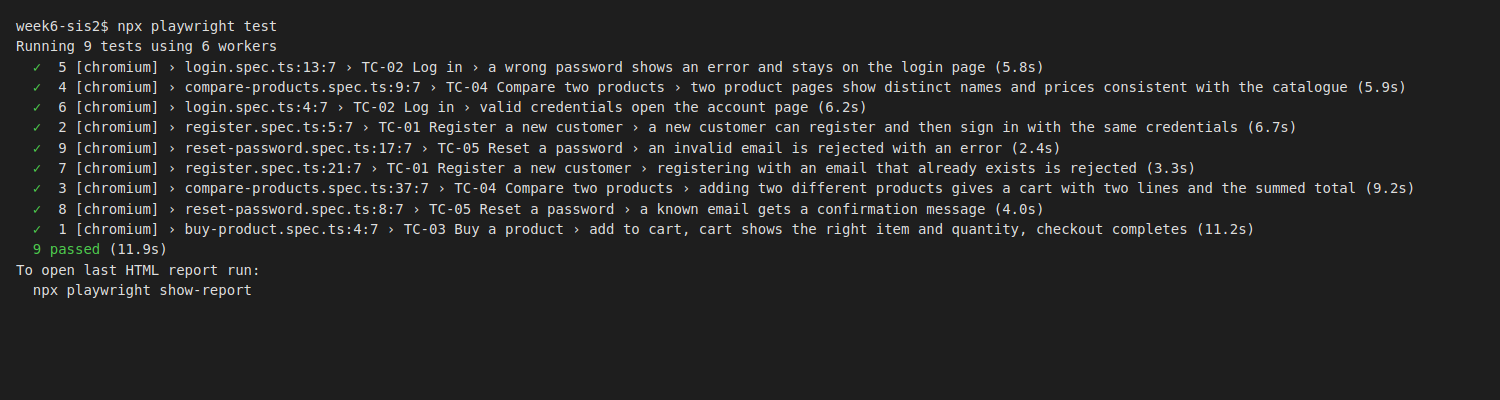
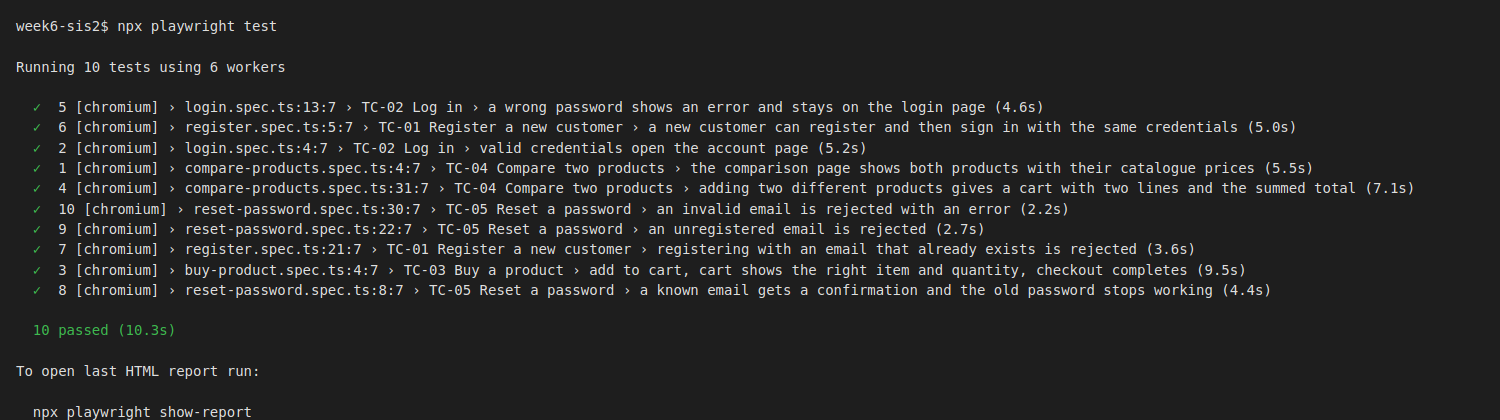
SIS 2: docs and evidence for the comparison, reset and checkout changes

diff --git a/week6-sis2/Review.md b/week6-sis2/Review.md
@@ -40,6 +40,9 @@ Branch `ai-raw-draft-sis2` (commit `7c420e5`) holds the first draft exactly as g
 | R7 | After "Payment was successful", click the same button again (`confirmOrder()`, label "Confirm") before asserting the order confirmation (`040689a`) | On the live site the first click only checks the payment; the second places the order and shows "Thanks for your order! Your invoice number is INV-…". |
 | R8 | Order confirmation locator narrowed from `/thanks for your order\|order was placed\|invoice/i` + `.first()` to `/thanks for your order/i` (`040689a`) | `.first()` picked the hidden "My invoices" link in the signed-in user menu, so `toBeVisible()` could never pass. |
 | R9 | `tools/discover.mjs`: nine `waitForTimeout` calls replaced by waits for the element each step produces (`01ab2c6`) | The rule is "no `waitForTimeout` anywhere", and the script is in the repository. Re-ran `npm run discover` afterwards: same sections and data. |
+| R10 | TC-04 rewritten to use the Toolshop's own comparison: "Compare" on two product pages, "Compare Now", then assertions on the `/comparison` table. New `ComparisonPage`; `addToCompare()` and `openComparison()` on `ProductPage` | The draft said the Toolshop had no compare feature and compared two product pages inside the test. That was wrong: `ci-out/discovery.md` already listed `add-to-compare` on the product page and `compare-btn` on the catalogue cards, and I missed it. I noticed when reading other students' public SIS 2 repositories, which test the comparison page. The bar only appears once two products are selected, so the test waits for "2 product(s) selected" before opening the page. |
+| R11 | TC-05: the known-email test now also signs in with the old password and expects "Invalid email or password"; new test for an unregistered but well-formed email | The confirmation alert is an untranslated i18n key (R5), so on its own it proves little. A password that stops working shows the reset happened. An unregistered email is a different partition from a malformed one: the server rejects it ("The selected email is invalid."), while `not-an-email` fails on the form. |
+| R12 | Checkout address step: the test no longer types an address. It waits for both `/postcode-lookup` answers and checks that the city changed from the profile value, then proceeds | R6 got the cause backwards. TC-03 failed 4 of 8 runs again, and the trace showed the same 422. Logging the invoice requests showed that the server accepts only the made-up address from the lookup ("Lake Daniela, California", 201) and rejects the real Almaty address (422). R6 passed only in the runs where a second, late lookup overwrote our values. Postcode and house number each send their own lookup, and the profile prefill triggers both, so the step waits for two. The invoice address the site accepts is itself a defect worth reporting. |
 
 Outcome of the section 4 decisions on the live site: D1 all names correct except the missing `house_number` (R3); D2 `KZ` is the option value and `Kazakhstan` its label, both valid; D3 `cash-on-delivery` is correct; D4 "already exists" and "Invalid email or password" correct, reset text wrong (R5); D5 the cart table has no row-level `data-test`, `tbody tr` kept.
 
@@ -70,6 +73,13 @@ Local runs on 2026-10-23, Ubuntu 26.04.1 LTS (12 cores), Node 24.18.0, Playwrigh
 | 9 | 2026-10-23 | `npx playwright test --repeat-each=2`: 18/18 passed (19.0s) | Order independence; every repeat registers its own customer. |
 | 10 | 2026-10-23 | with-bugs build, 0/9 passed | See section 6: not a valid signal. |
 | 11 | 2026-10-23 19:48 Almaty | Final `npx playwright test`: 9/9 passed (11.9s) | Recorded in `screenshots/03-local-run-*.png`. |
+| 12 | 2026-10-23 | First run of the new TC-04: failed | Waited for "1 product(s) selected" after the first product; the bar does not appear for one product. Check moved to after the second (R10). |
+| 13 | 2026-10-23 | TC-04 and TC-05 specs, three runs: 5/5 passed each time | After R10, R11. |
+| 14 | 2026-10-23 20:12 Almaty | `npx playwright test`: 10/10 passed (16.1s); `--workers=4 --repeat-each=2`: 20/20 passed (28.5s) | |
+| 15 | 2026-10-23 | `npx playwright test`: 9/10 passed; then TC-03 `--repeat-each=8 --workers=4`: 4/8 passed | TC-03 got 422 from `POST /invoices` (R12). |
+| 16 | 2026-10-23 | TC-03 `--repeat-each=10 --workers=4`: 10/10 passed | After R12. |
+| 17 | 2026-10-23 | `npx playwright test`: 10/10 passed (12.5s); `--workers=4 --repeat-each=2`: 20/20 passed (28.2s) | |
+| 18 | 2026-10-23 20:21 Almaty | Final `npx playwright test`: 10/10 passed (10.3s) | Recorded in `screenshots/03-local-run-*.png` (replaces the run 11 images). |
 
 ## 6. Three checks before commit (from the Week 5 rules)
 

diff --git a/week6-sis2/README.md b/week6-sis2/README.md
@@ -31,10 +31,10 @@ Node 20 or newer. No environment variables are needed; the base URL is in `playw
 | `tests/register.spec.ts` | TC-01 Register a new customer | A unique account is created, the user lands on the login page, and the same credentials then open the account page. A second test checks that an existing email is rejected. |
 | `tests/login.spec.ts` | TC-02 Log in | Valid credentials reach `/account` with the customer's name in the menu; a wrong password shows the error, stays on the login page and does not sign in. |
 | `tests/buy-product.spec.ts` | TC-03 Buy a product | Add to cart, badge shows 1, cart shows the right item, quantity and price, four-step checkout completes with a payment success message. |
-| `tests/compare-products.spec.ts` | TC-04 Compare two products | Opens two products, captures name and price, asserts they are distinct and match the catalogue API, and that the cheaper one in the UI is the cheaper one in the API. A second test puts both in the cart and checks the summed total. |
-| `tests/reset-password.spec.ts` | TC-05 Reset a password | A known email gets a confirmation; an invalid email gets a validation error and stays on the page. |
+| `tests/compare-products.spec.ts` | TC-04 Compare two products | Adds two in-stock products to the comparison from their product pages, opens `/comparison` and checks that the table lists both names with their catalogue prices. A second test puts both in the cart and checks the summed total. |
+| `tests/reset-password.spec.ts` | TC-05 Reset a password | A known email gets a confirmation and the old password no longer signs in. An unregistered email and a malformed email are both rejected, and the user stays on the page. |
 
-Nine tests in five files. Every test creates the data it needs: registration uses a fresh email per run (`data/user.factory.ts`), the product tests pick in-stock products through the API instead of hard-coding one, and every test starts in its own browser context (empty cart, not signed in).
+Ten tests in five files. Every test creates the data it needs: registration uses a fresh email per run (`data/user.factory.ts`), the product tests pick in-stock products through the API instead of hard-coding one, and every test starts in its own browser context (empty cart, not signed in).
 
 ## Structure
 
@@ -54,8 +54,7 @@ Rules the suite follows: no `waitForTimeout`, no CSS classes and no positional X
 
 ## What was not automated, and why
 
-- The reset e-mail itself. The hosted Toolshop does not expose the mailbox, so TC-05 is scoped to the UI outcome (confirmation or validation error), as the brief allows.
-- Product comparison as a feature. The Toolshop has no compare page, so TC-04 performs the comparison in the test (two product pages, name and price, assertions stated in the test) rather than exercising a feature that does not exist.
+- The reset e-mail itself. The hosted Toolshop does not expose the mailbox, so TC-05 checks what the site shows: the confirmation, and that the old password stops working.
 - The exact catalogue count or a fixed product. The site is shared and its stock changes, so tests ask the API for in-stock products at run time instead of asserting "there are 9 products".
 - Payment by card. Cash on delivery is the simplest method that completes an order; card validation is a separate feature with its own test cases.
 

diff --git a/week6-sis2/Description.md b/week6-sis2/Description.md
@@ -19,10 +19,11 @@ Automate the five end-to-end test cases from the Week 6 brief against the Toolsh
 | TC-02a | Log in, valid | `/auth/login`, a customer registered through the API for this test, submit | URL `/account`, page title "My account", menu shows the customer's name |
 | TC-02b | Log in, invalid | Fresh customer's email, wrong password | Error "Invalid email or password", still on `/auth/login`, no user menu |
 | TC-03 | Buy a product | Pick an in-stock product via API, open its page, add to cart, open cart, proceed through sign-in, address and payment (cash on delivery), confirm | Badge "1"; one cart line with the right name, quantity 1, price and total; "Payment was successful", then "Thanks for your order" |
-| TC-04a | Compare two products | Open two in-stock products, capture name and price from the UI | Names differ and match the API; UI prices match API prices; the cheaper product is the same in UI and API |
+| TC-04a | Compare two products | Open two in-stock products, click "Compare" on each, then "Compare Now" | Bar shows "2 product(s) selected"; `/comparison` lists both names in the order added, with the API prices |
 | TC-04b | Two products in one cart | Add both, open cart | Badge "2", two lines, both names present, total = sum of prices |
-| TC-05a | Reset password, known email | `/auth/forgot-password`, fresh customer's email, submit | A confirmation alert appears with the text the site shows (`page.forgot-password.confirm`) |
-| TC-05b | Reset password, invalid email | `not-an-email`, submit | Validation error, still on the forgot-password page |
+| TC-05a | Reset password, known email | `/auth/forgot-password`, fresh customer's email, submit; then sign in with the old password | A confirmation alert appears with the text the site shows (`page.forgot-password.confirm`); the old password gets "Invalid email or password" |
+| TC-05b | Reset password, unregistered email | A well-formed email that has no account, submit | Alert "The selected email is invalid.", still on the forgot-password page |
+| TC-05c | Reset password, malformed email | `not-an-email`, submit | Validation error, still on the forgot-password page |
 
 ## Test data
 

diff --git a/week6-sis2/Prompt.md b/week6-sis2/Prompt.md
@@ -59,3 +59,21 @@ Commit in small steps with clear messages and push to main. Finish by printing: 
 ```
 
 Raw output (summary): discovery confirmed most attribute names and showed the seeded customer account is locked on the shared site. Six of nine tests failed on the first run. The fixes, with reasons, are R3 to R9 in `Review.md`, and the runs are in its section 5. The with-bugs run went fully red but only because that build is an older app (hash routes, different API), so it is recorded as not valid evidence. The broken-expected-value check was used instead.
+
+## P4: compare with other students' repositories
+
+Tool: Claude Code on the student's laptop, model Claude Opus 5.5 (`claude-opus-5-5`). Date: 2026-10-23.
+
+*Pasted: a list of eight public GitHub repositories from the course, found by searching GitHub for the course code and "KBTU software testing".*
+
+```text
+check if those relevant users and can help us to shape sis2 in more correct way. if needed copy in tmp and explore relevant ones
+```
+
+Raw output (summary): cloned the repositories. Three had a SIS 2 suite. Two of them test the Toolshop's comparison page (`add-to-compare`, `compare-link`, `/comparison`), which our TC-04 said did not exist, and our own `ci-out/discovery.md` already listed those buttons. One also checks that the old password stops working after a reset, and covers an unregistered email. The AI proposed rewriting TC-04 and strengthening TC-05.
+
+```text
+both, show plan and execute it and also is our sis2 ready to be served and doesnt have AI looks of i
+```
+
+Raw output (summary): probed the live site to confirm the comparison flow and the reset behaviour, made the changes R10 and R11 in `Review.md`, ran the suite (runs 12 to 14) and checked the README, Description, Prompt and Review files for AI writing patterns. No test code was copied from the other repositories; they were used to find what our suite had missed.

diff --git a/week6-sis2/screenshots/README.md b/week6-sis2/screenshots/README.md
@@ -6,7 +6,7 @@ Evidence for the SIS 2 submission.
 |------|---------------|
 | `01-ci-cloudflare-block.png` | First execution attempt from GitHub Actions: every test stopped at the Cloudflare bot check (see Review.md, R2) |
 | `02-ai-session-*.png` | The AI session that produced the draft (to be added by the student) |
-| `03-local-run-summary.png` | Final local `npx playwright test` output, 9 passed (11.9s), 2026-10-23 19:48 Almaty. Rendered from the captured terminal output, not a window capture. |
-| `03-local-run-html-report.png` | The HTML report of the same run (`npx playwright show-report`): 9 passed, 0 failed, 0 flaky |
+| `03-local-run-summary.png` | Final local `npx playwright test` output, 10 passed (10.3s), 2026-10-23 20:21 Almaty. Rendered from the captured terminal output, not a window capture. |
+| `03-local-run-html-report.png` | The HTML report of the same run (`npx playwright show-report`): 10 passed, 0 failed, 0 flaky |
 
 Playwright also saves a screenshot of every test under `test-results/` on each run (`screenshot: 'on'` in the config).
